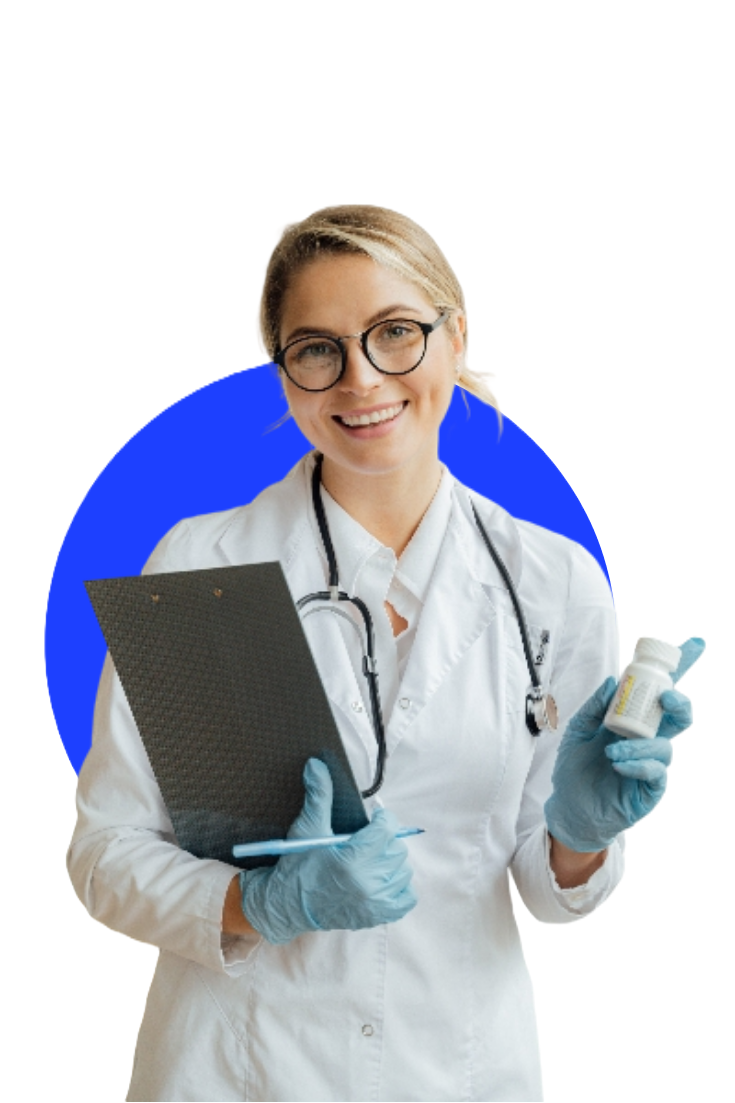
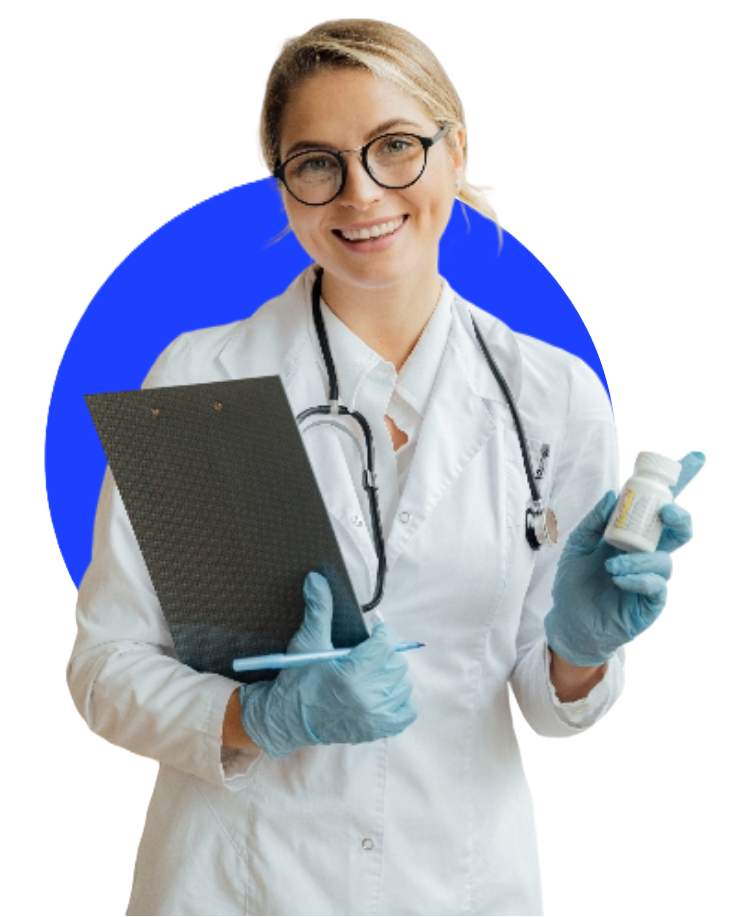
Kreirana forma za zakazivanje

diff --git a/src/components/CSS/HeroSekcija.css b/src/components/CSS/HeroSekcija.css
@@ -2,32 +2,46 @@
   background-image: url("../../../public/images/hero-pozadina.jpg");
   background-size: cover;
   background-position: center;
-  height: 100vh;
   background-repeat: no-repeat;
   text-align: center;
-  padding: 5% 10%;
+
+  padding: 5% 0 0;
+
+  min-height: 100vh;
 }
 
 .hero-grid {
   display: grid;
   grid-template-columns: 1fr;
-  height: 100vh;
+  min-height: 100vh;
+}
+
+.kolona1 {
+  display: flex;
+  flex-direction: column;
+  align-items: center;
+  justify-content: center;
+  gap: 1.25rem;
+  padding: 4rem 10% 2rem;
 }
 
 .kolona2 {
   display: flex;
   align-items: center;
   justify-content: center;
+  padding: 0;
 }
 
 .hero-slika {
-  width: 80%;
+  width: 100%;
   height: auto;
   object-fit: cover;
+  display: block;
 }
 
-.hero-naslov{
-  font-size: 2.5rem;
+.hero-naslov {
+  font-size: 2rem;
+  margin-top: 1rem;
 }
 
 .hero-naslov span {
@@ -38,15 +52,26 @@
   color: var(--secondary-color);
   background-color: transparent;
   text-decoration: underline;
+  margin: 0;
 }
 
+
+/* DESKTOP */
 @media (min-width: 768px) {
+
+  .hero {
+    padding: 5% 10%;
+    max-height: 100vh;
+    min-height: unset;
+  }
+
   .hero-grid {
     grid-template-columns: 1fr 1fr;
+    height: 100vh;
     text-align: justify !important;
   }
 
-  .hero-naslov{
+  .hero-naslov {
     text-align: left !important;
   }
 
@@ -56,6 +81,7 @@
     align-items: center;
     justify-content: center;
     text-align: justify !important;
+    padding: 0;
   }
 
   .kolona2 {
@@ -64,8 +90,8 @@
   }
 
   .hero-slika {
-    height: auto;
     width: 80%;
+    height: auto;
     object-fit: cover;
   }
 }

diff --git a/src/components/AppointmentForm.jsx b/src/components/AppointmentForm.jsx
@@ -1,0 +1,46 @@
+import React from "react";
+import "../components/CSS/AppointmentForm.css";
+import { FaUser, FaPhone, FaCalendarAlt, FaClock } from "react-icons/fa";
+
+const AppointmentForm = () => {
+  return (
+    <form
+      className="appointment-form"
+      onSubmit={(e) => {
+        e.preventDefault();
+      }}
+    >
+      <div className="form-group">
+        <label htmlFor="name">Name</label>
+        <div className="input-wrapper">
+          <FaUser className="icon" />
+          <input type="text" name="name" id="name" placeholder="John Doe" />
+        </div>
+      </div>
+      <div className="form-group">
+        <label htmlFor="phone">Phone Number</label>
+        <div className="input-wrapper">
+          <FaPhone className="icon" />
+          <input type="tel" name="phone" id="phone" placeholder="Your Phone" />
+        </div>
+      </div>
+      <div className="form-group">
+        <label htmlFor="date">Preferred Date</label>
+        <div className="input-wrapper">
+          <FaCalendarAlt className="icon" />
+          <input type="date" name="date" id="date" />
+        </div>
+      </div>
+      <div className="form-group">
+        <label htmlFor="time">Preferred Time</label>
+        <div className="input-wrapper">
+          <FaClock className="icon" />
+          <input type="time" name="time" id="time" />
+        </div>
+      </div>
+      <button type="submit">Book an Appointment</button>
+    </form>
+  );
+};
+
+export default AppointmentForm;

diff --git a/src/components/CSS/AppointmentForm.css b/src/components/CSS/AppointmentForm.css
@@ -1,0 +1,83 @@
+.appointment-form {
+  background-color: white;
+  border-radius: 16px;
+  padding: 1.25rem 1.5rem;
+
+  display: flex;
+  flex-direction: column;
+  gap: 0.75rem;
+
+  box-shadow: 0 4px 12px rgba(0, 0, 0, 0.05);
+
+  width: 90%;
+  max-width: 1100px;
+
+  margin: 0 auto;
+
+  z-index: 10;
+}
+
+.form-group {
+  display: flex;
+  flex-direction: column;
+  font-size: 1rem;
+  gap: 0.2rem;
+}
+
+.form-group label {
+  color: var(--secondary-color);
+  font-size: 0.95rem;
+  font-weight: 500;
+}
+
+.input-wrapper {
+  margin-top: 0.15rem;
+  display: flex;
+  align-items: center;
+  gap: 0.5rem;
+  border: 1px solid #e5e5e5;
+  border-radius: 8px;
+  padding: 0.55rem 0.75rem;
+  background-color: #fafafa;
+}
+
+.input-wrapper input {
+  border: none;
+  outline: none;
+  flex: 1;
+  font-size: 0.9rem;
+  background: transparent;
+}
+
+.icon {
+  color: var(--secondary-color);
+}
+
+input[type="date"]::-webkit-calendar-picker-indicator,
+input[type="time"]::-webkit-calendar-picker-indicator {
+  display: none;
+  -webkit-appearance: none;
+}
+
+
+/* DESKTOP */
+@media (min-width: 768px) {
+
+  .appointment-form {
+    flex-direction: row;
+    justify-content: space-between;
+    align-items: center;
+
+    position: absolute;
+    bottom: -3rem;
+    left: 50%;
+
+    transform: translateX(-50%);
+
+    width: 90%;
+  }
+
+  .form-group {
+    flex: 1;
+  }
+}

diff --git a/src/components/HeroSekcija.jsx b/src/components/HeroSekcija.jsx
@@ -1,22 +1,30 @@
 import React from "react";
 import "./CSS/HeroSekcija.css";
+import AppointmentForm from "./AppointmentForm";
 
 const HeroSekcija = ({ naslov, opis, dugme1, dugme2, slika }) => {
   //CTA - Call To Action
   return (
-    <section className="hero">
-      <div className="hero-grid">
-        <div className="kolona1">
-          <h1 className="hero-naslov" dangerouslySetInnerHTML={{__html: naslov}}></h1>
-          <p>{opis}</p>
-          <button>{dugme1}</button>
-          <button className="hero-dugme-link">{dugme2}</button>
+    <>
+      <section className="hero">
+        <div className="hero-grid">
+          <div className="kolona1">
+            <h1
+              className="hero-naslov"
+              dangerouslySetInnerHTML={{ __html: naslov }}
+            ></h1>
+            <p>{opis}</p>
+            <button>{dugme1}</button>
+            <button className="hero-dugme-link">{dugme2}</button>
+          </div>
+          <div className="kolona2">
+            <img className="hero-slika" src={slika} alt="" />
+          </div>
         </div>
-        <div className="kolona2">
-          <img className="hero-slika" src={slika} alt="" />
-        </div>
-      </div>
-    </section>
+        <AppointmentForm />
+      </section>
+      
+    </>
   );
 };
 

diff --git a/src/App.css b/src/App.css
@@ -1,6 +1,6 @@
 :root {
   --primary-color: #1d40ff;
-  --secondary-color: #0c1f41;
+  --secondary-color: #1c2a53;
   --background-color: #f0f0f0;
   --text-color: #949398;
 }
@@ -22,9 +22,9 @@ h1,h2,h3,h4,h5,h6{
 button{
   background-color: var(--primary-color);
   color: white;
-  padding: 10px 20px;
+  padding: 16px 24px;
   cursor: pointer;
   border: none;
-  border-radius: 15px;
-  margin: 5px;
+  border-radius: 20px;
+  margin: 10px;
 }
